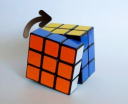
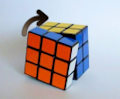
refactor: Resize image in tktest.py to 100x100

diff --git a/tktest.py b/tktest.py
@@ -280,8 +280,9 @@ def moves_to_image():
     button1.config(command=button_previous)
     button2.config(command=button_next)
 
-    # Add an image to the top frame
+    # Add an image to the top frame, rezise it to 100x100
     img = tk.PhotoImage(file=f"./images/{moves[current_move]}.png")
+    img = img.subsample(2)  # Resize the image to 100x100
     label = tk.Label(top_frame, image=img)
     label.pack()
 
